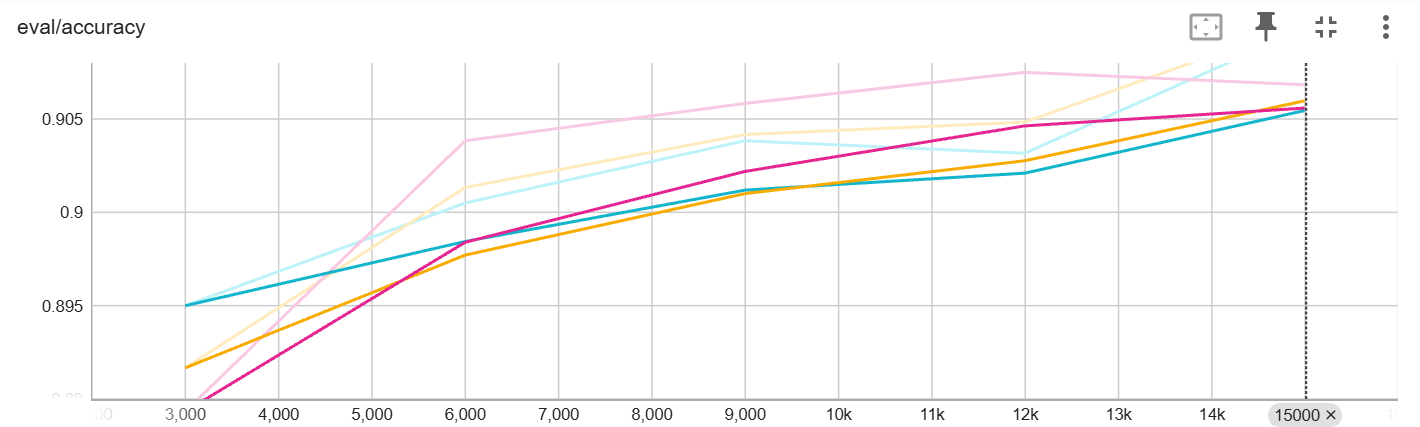
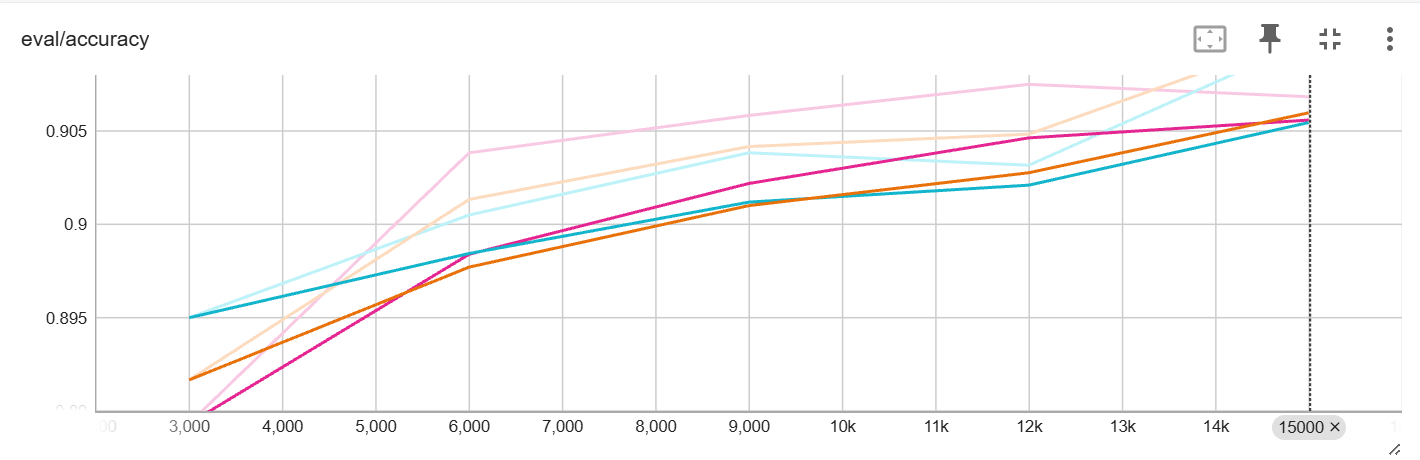
Finale Version

diff --git a/README.md b/README.md
@@ -27,13 +27,13 @@ This project fine-tunes a Vision Transformer to classify Zalando’s Fashion-MNI
 
 ## Data Augmentation
 
-| Transformation                                            | Description                                                                             |
-|-----------------------------------------------------------|-----------------------------------------------------------------------------------------|
-| `Convert to RGB`                                          | Convert grayscale images to RGB (no change if already 3-channel)                        |
-| `Resize to 224×224`                                       | Resize all images to height=224 and width=224                                           |
-| `Resample=2 (BILINEAR)`                                   | Use bilinear interpolation when resizing                                                 |
-| `Rescale factor=0.00392156862745098`                      | Scale pixel values from [0,255] to [0,1]                                                |
-| `Normalize(mean=[0.5,0.5,0.5], std=[0.5,0.5,0.5])`        | Subtract mean and divide by std for each channel                                        |
+| Transformation                                                  | Description                                                                                               |
+|-----------------------------------------------------------------|-----------------------------------------------------------------------------------------------------------|
+| `Resize to 256×256`                                             | Resize all input images to height=256 and width=256                                                       |
+| `RandomResizedCrop(size=224, scale=(0.85, 1.0))`               | Randomly crop a 224×224 patch from the image, scaling the crop area between 85 % – 100 % of the original   |
+| `RandomHorizontalFlip(p=0.5)`                                   | Horizontally flip each image with 50 % probability                                                         |
+| `ColorJitter(brightness=0.2, contrast=0.2)`                     | Apply random adjustments to brightness (±20 %) and contrast (±20 %)                                       |
+| `RandomRotation(degrees=5)`                                     | Rotate the image randomly by up to ±5 degrees                                                              |
 
 
 ## Model Training
@@ -64,17 +64,17 @@ Details of training can be found at [Huggingface TensorBoard](https://huggingfac
 
 | Model/Method                                                         | TensorBoard Link                                      |
 |----------------------------------------------------------------------|------------------------------------------------------|
-| Transfer Learning with `google/vit-base-patch16-224` (without data augmentation) | runs/May08_21-55-49_cs-01jtrx85f3pnwfy8yvb89mmm2x                    |                   |
-
+| Transfer Learning with `google/vit-base-patch16-224` (without data augmentation) | runs/May12_20-06-38_cs-01jv30w57s3x5787jt7sj65b8z                    |                   |
+| Transfer Learning with `google/vit-base-patch16-224` (with data augmentation)  | runs/May31_21-14-43_cs-01jwm0rvrk5b2m7f3e2trkqfjc                    |
 ![alt text](doc/eval_accuracy.png)
 
 
 ## Results
-
-| Model/Method                                                      | Accuracy | Precision | Recall  |
-|-------------------------------------------------------------------|---------:|----------:|--------:|
-| Transfer learning (`vit-base-fashion`, no data augmentation)      |   0.9102 |      –    |     –   |
-| Zero-shot CLIP (`openai/clip-vit-large-patch14`)                  |   0.6097 |   0.5647  |  0.6097 |
+| Model/Method                                                         | Accuracy | Precision | Recall |
+|----------------------------------------------------------------------|----------|-----------|--------|
+| Transfer Learning with `google/vit-base-patch16-224` (without data augmentation) | 91.02%      | -         | -      |
+| Transfer Learning with `google/vit-base-patch16-224` (with data augmentation)  | 91.02%      | -         | -      |
+| Zero-shot Image Classification with `openai/clip-vit-large-patch14`  | 60.97%      | 56.47%    | 60.97%    |
 
 
 ## References 
